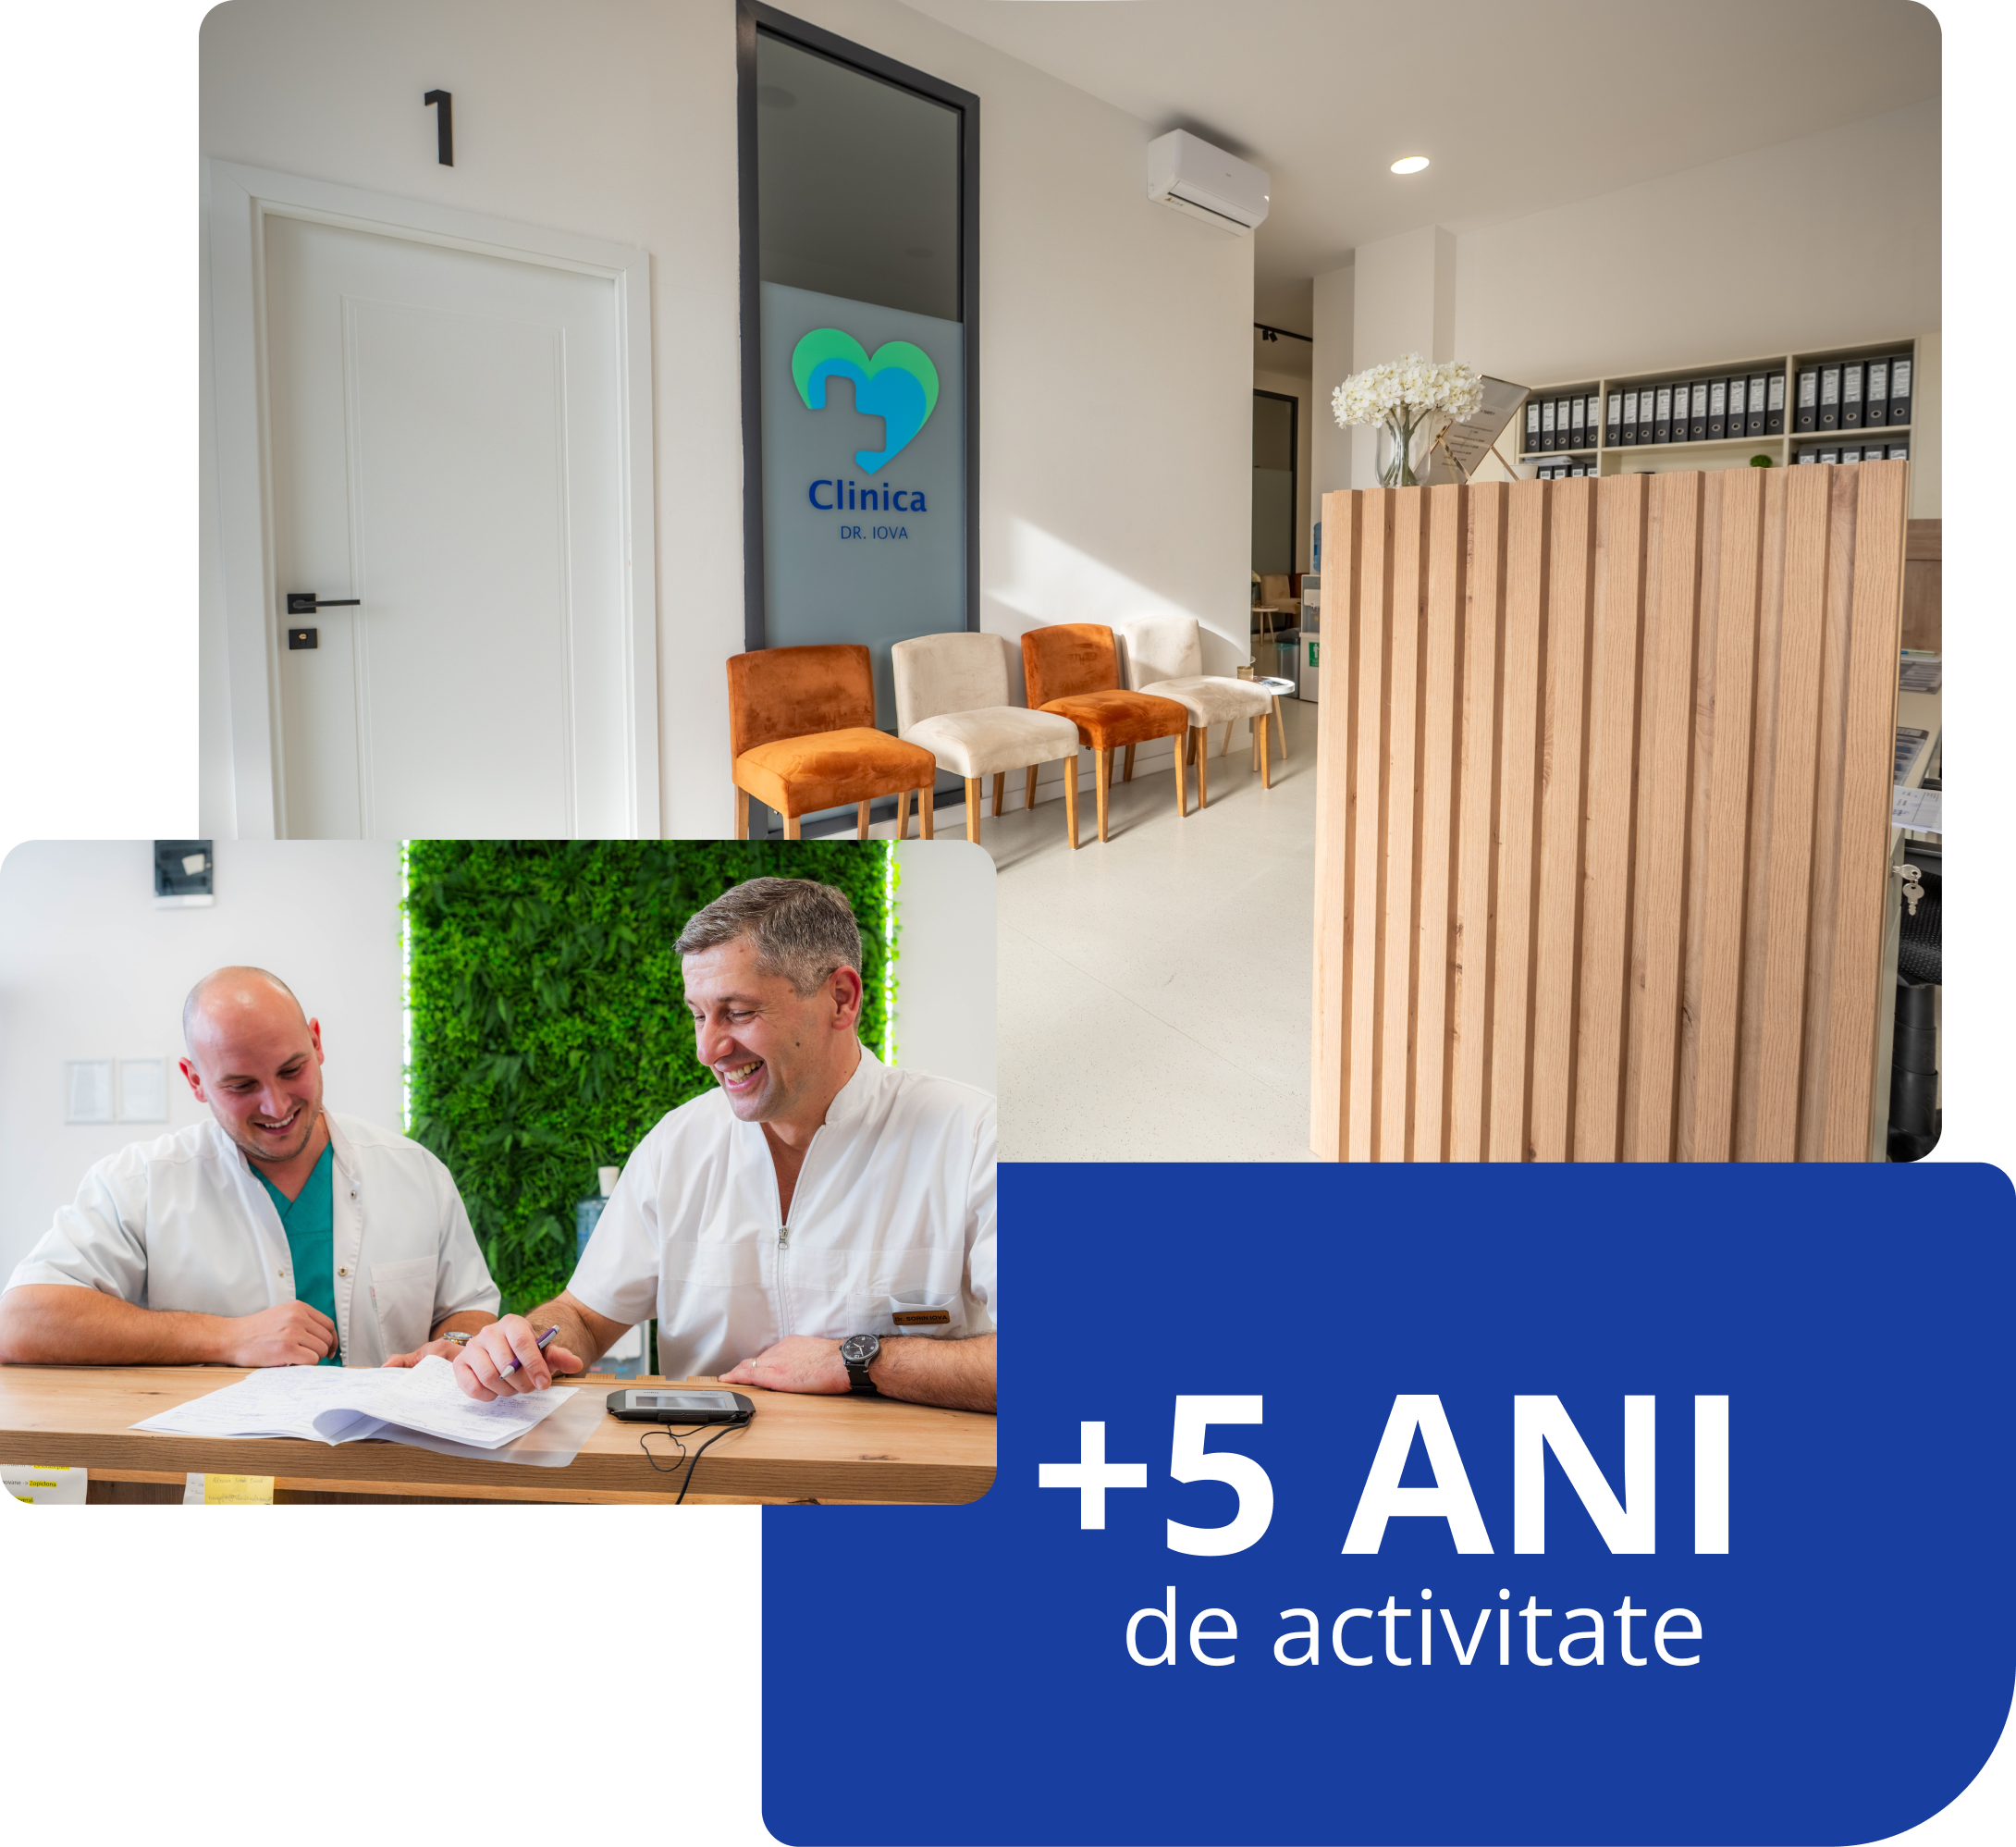
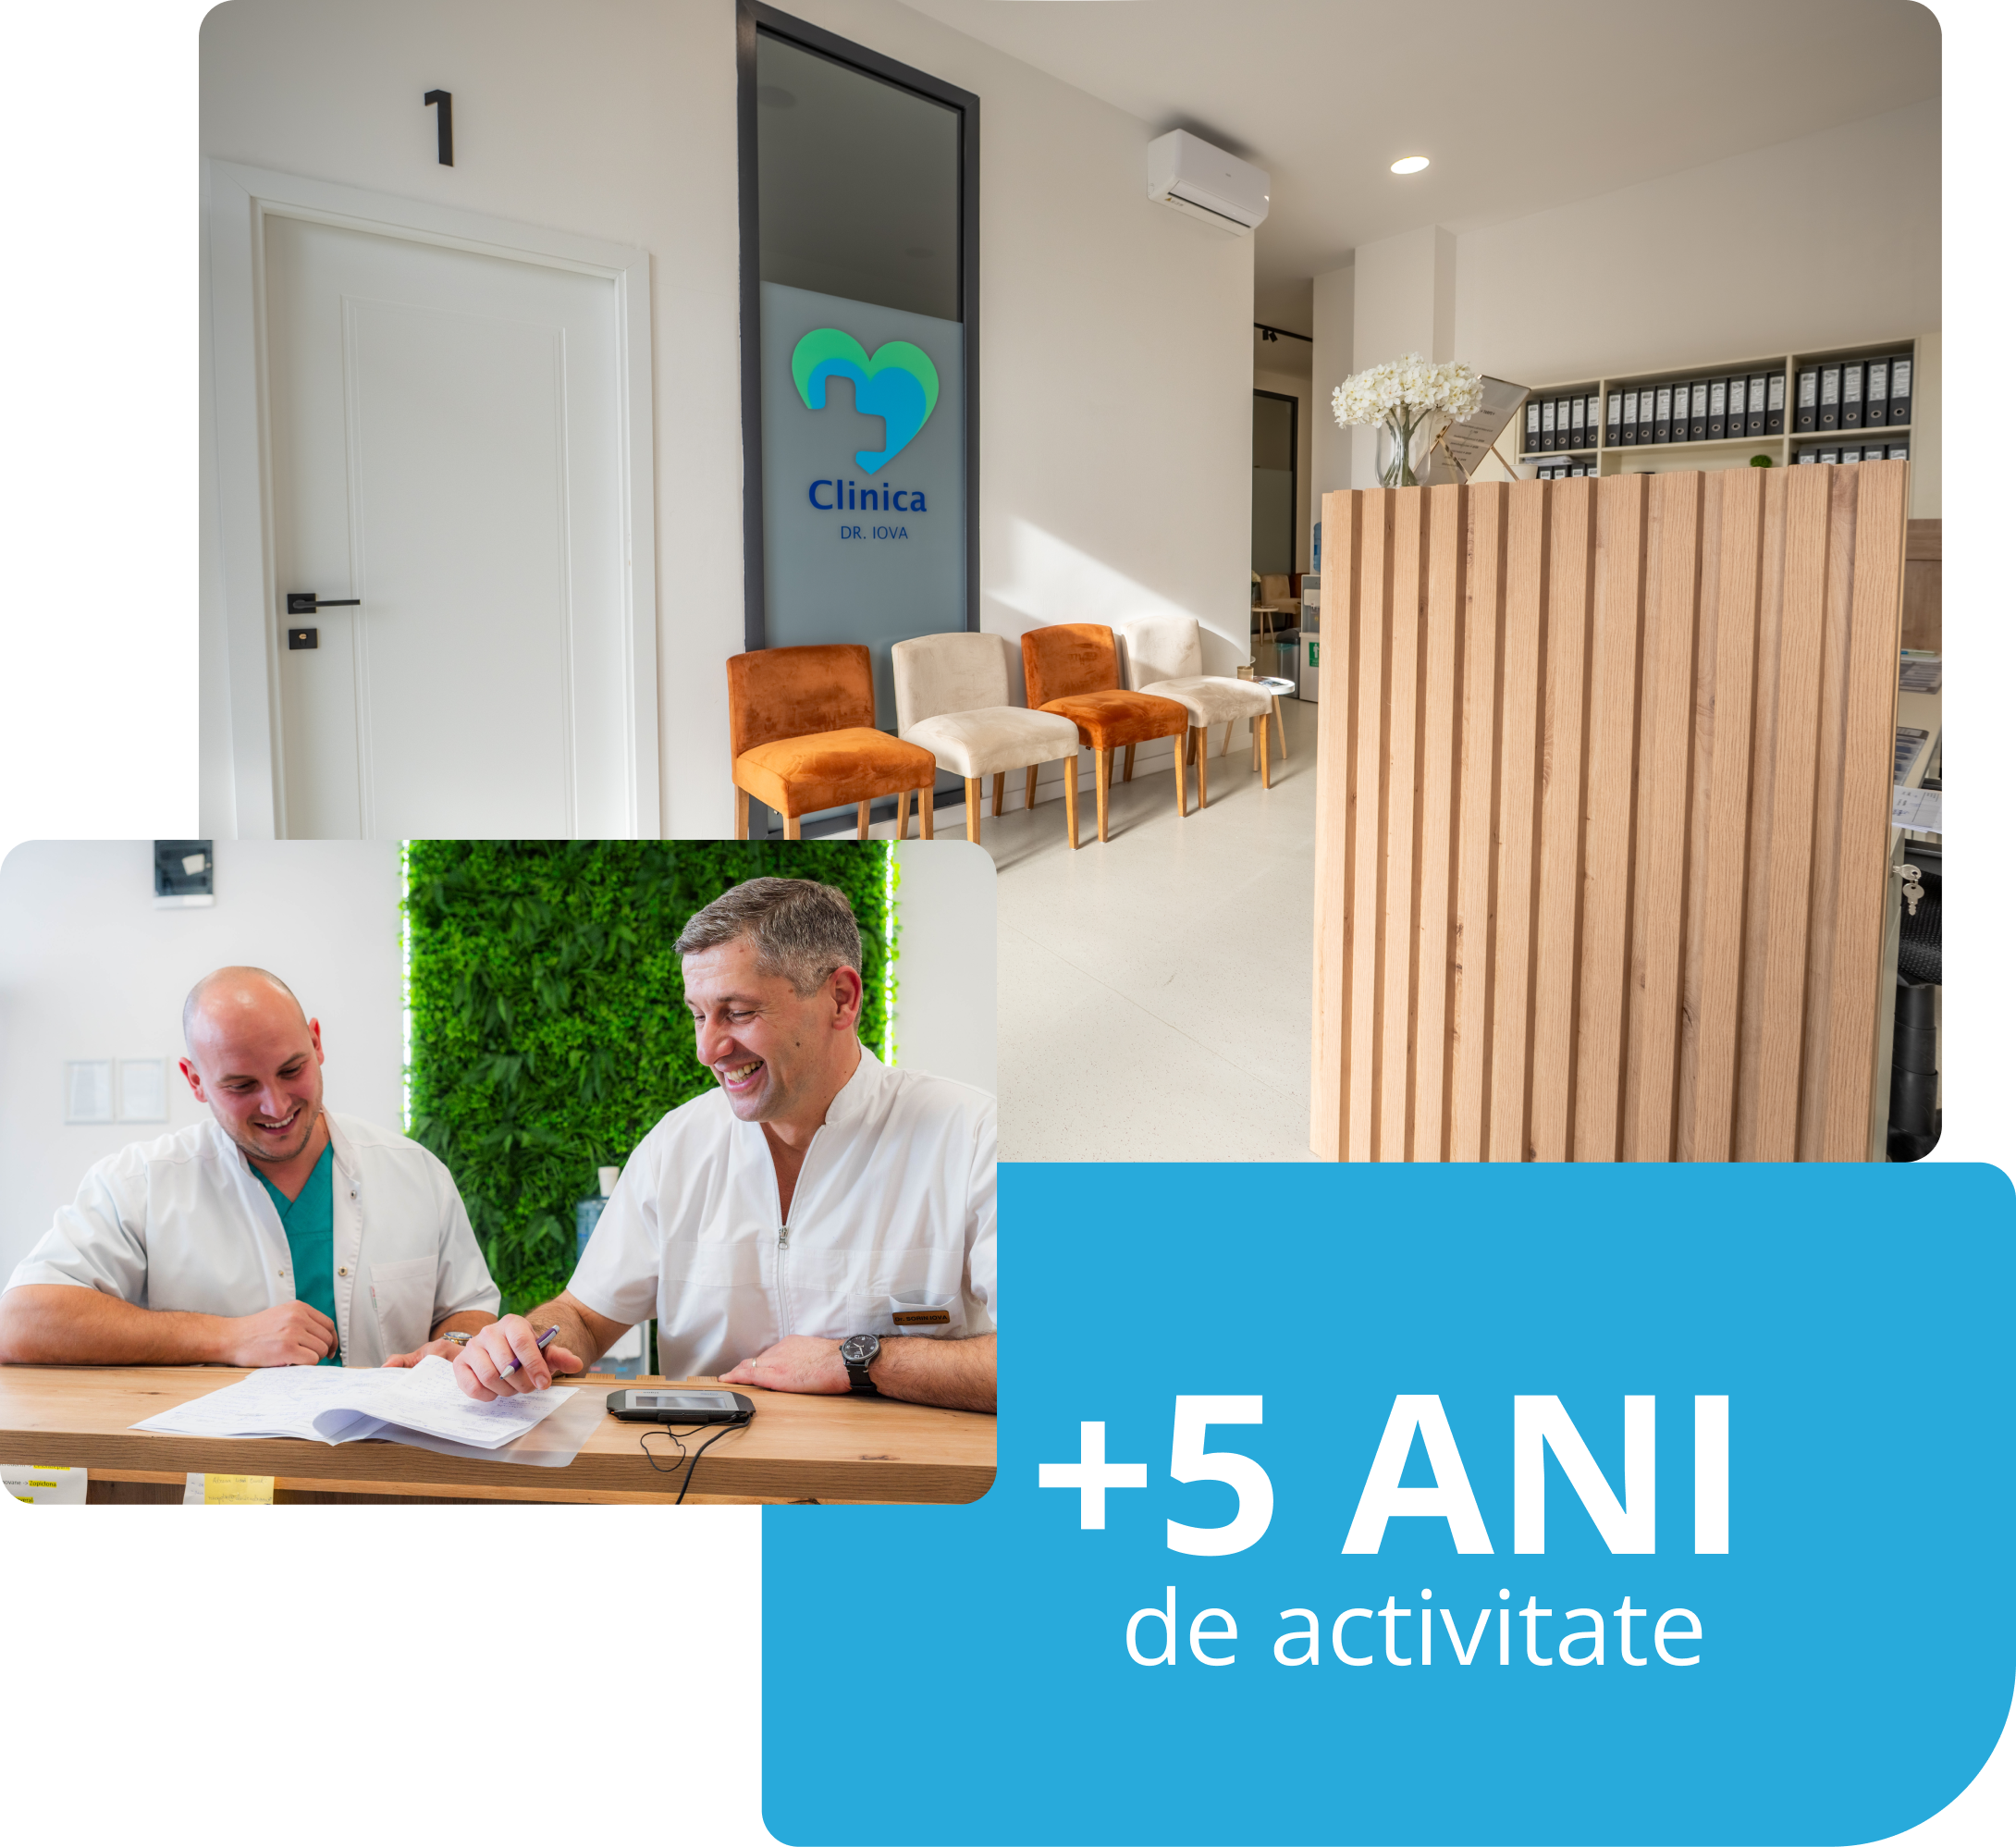
refactor: update color variables and improve styling in various components

Changed region(s): [[0.3743, 0.6209, 1.0, 1.0]]

diff --git a/src/assets/main.css b/src/assets/main.css
@@ -6,11 +6,11 @@
   --font-open-sans: "Open Sans", sans-serif;
 
   --color-brand-primary: #28AADB;
-  --color-brand-primary-light: #B3E1D4;
-  --color-brand-primary-lighter: #D2F0E2;
-  --color-brand-dark-blue: #0D162D;
-  --color-brand-blue: #183E9F;
-  --color-brand-blue-light: #6C9FEC;
+  --color-brand-secondary: #64EAB6;
+  --color-brand-tertiary: #183E9F;
+  --color-brand-black: #0D162D;
+  --color-brand-white: #FFFFFF;
+  --color-brand-gray: #F6FCFF;
 }
 
 body {

diff --git a/src/components/homepage/BlogSection.vue b/src/components/homepage/BlogSection.vue
@@ -44,7 +44,7 @@ const cards = [
                     </h2>
                 </div>
                 <a href="#"
-                    class="mt-4 md:mt-0 px-4 py-1 w-fit rounded-md text-white bg-brand-dark-blue hover:bg-brand-primary hover:text-white hover:cursor-pointer transition duration-300 ease-in-out text-lg font-medium">
+                    class="mt-4 md:mt-0 px-4 py-1 w-fit rounded-md text-white bg-black hover:bg-brand-primary hover:text-white hover:cursor-pointer transition duration-300 ease-in-out text-lg font-medium">
                     Vezi toate articolele
                 </a>
             </div>

diff --git a/src/components/homepage/ReviewSection.vue b/src/components/homepage/ReviewSection.vue
@@ -89,7 +89,7 @@ const getReviewCardClass = (index) => {
             class="container mx-auto max-w-7xl mt-10 bg-brand-blue rounded-lg p-6 flex flex-col sm:flex-row justify-between items-center text-white">
             <h3 class="text-center sm:text-left mb-4 sm:mb-0">Ai nevoie de o programare?</h3>
             <RouterLink :to="{ name: 'contact' }"
-                class="px-4 py-1 rounded-md text-brand-dark-blue bg-white hover:bg-brand-blue hover:text-white hover:cursor-pointer transition duration-300 ease-in-out text-lg font-medium">
+                class="px-4 py-1 rounded-md text-brand-black bg-white hover:bg-brand-blue hover:text-white hover:cursor-pointer transition duration-300 ease-in-out text-lg font-medium">
                 Programează-te
             </RouterLink>
         </div>

diff --git a/src/components/homepage/StatsSection.vue b/src/components/homepage/StatsSection.vue
@@ -32,7 +32,7 @@
             </div>
 
             <!-- Dreapta -->
-            <div class="w-full lg:w-1/2 p-10 bg-brand-blue-light/5 rounded-2xl flex flex-col gap-10">
+            <div class="w-full lg:w-1/2 p-10 bg-brand-gray rounded-2xl flex flex-col gap-10">
                 <div class="flex flex-col items-center text-center lg:flex-row lg:text-left">
                     <img src="@/assets/homepage/stats/statistici_echipa_medicala_profesionista.svg" alt="Stat Icon"
                         class="w-16 h-16 mb-4 lg:mb-0 lg:mr-8" />

diff --git a/src/components/navigation/Footer.vue b/src/components/navigation/Footer.vue
@@ -5,7 +5,7 @@
     <footer class="py-16 mt-36 text-white relative overflow-hidden">
         <div class="absolute inset-0 bg-cover bg-center bg-no-repeat 
                     bg-[url('/src/assets/homepage/footer-background.svg')]" aria-hidden="true"></div>
-        <div class="absolute inset-0 bg-dark-blue bg-opacity-90 z-0"></div>
+        <div class="absolute inset-0 bg-brand-black bg-opacity-90 z-0"></div>
 
         <div
             class="container mx-auto px-6 lg:px-16 flex flex-col lg:flex-row justify-center lg:justify-between items-center lg:items-start gap-12 relative z-10">